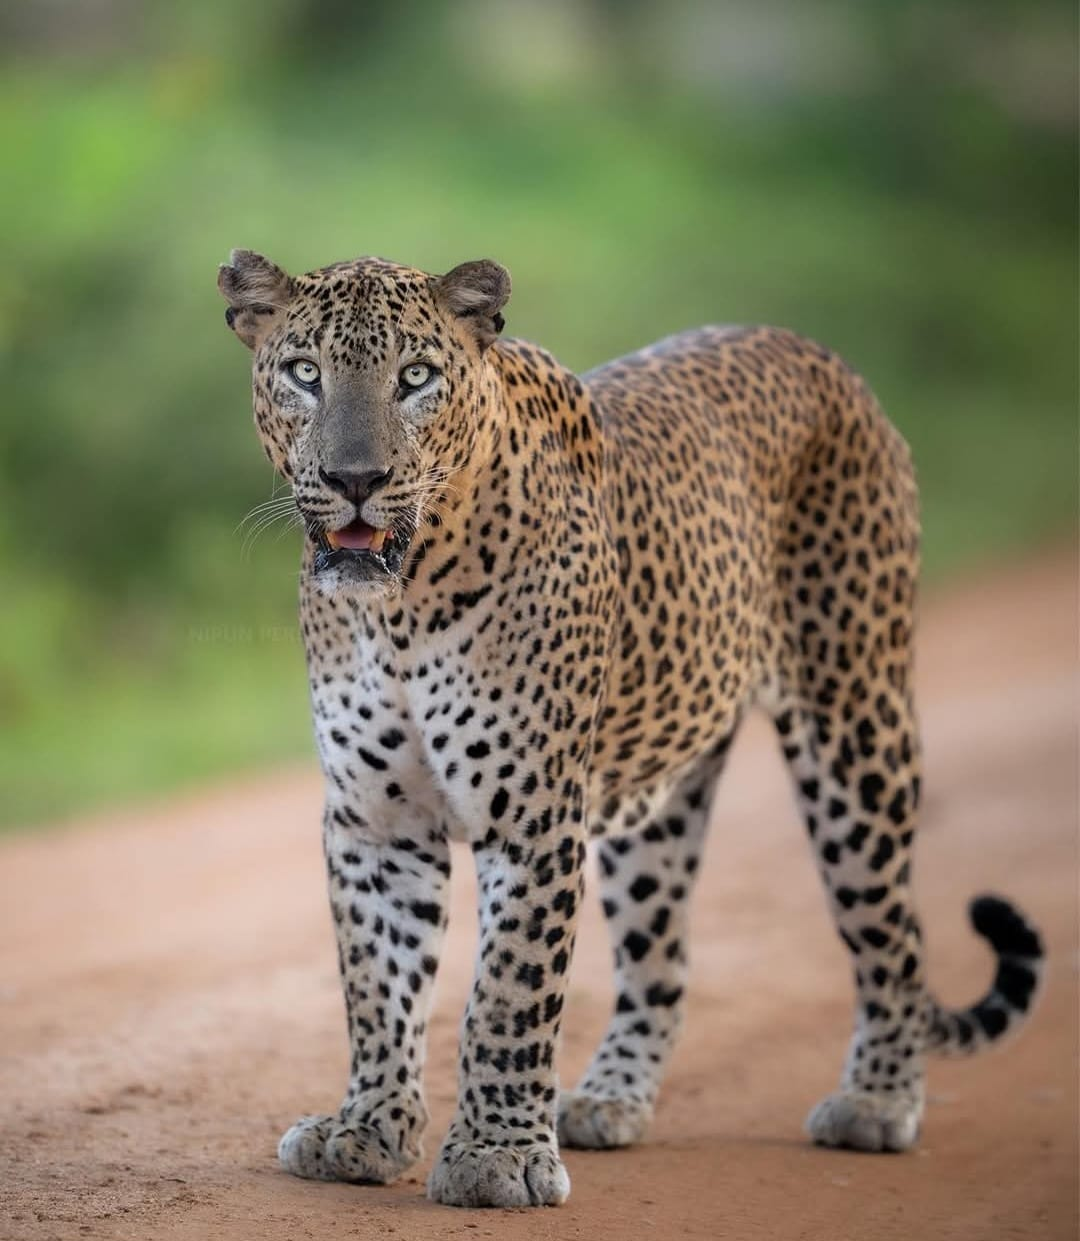
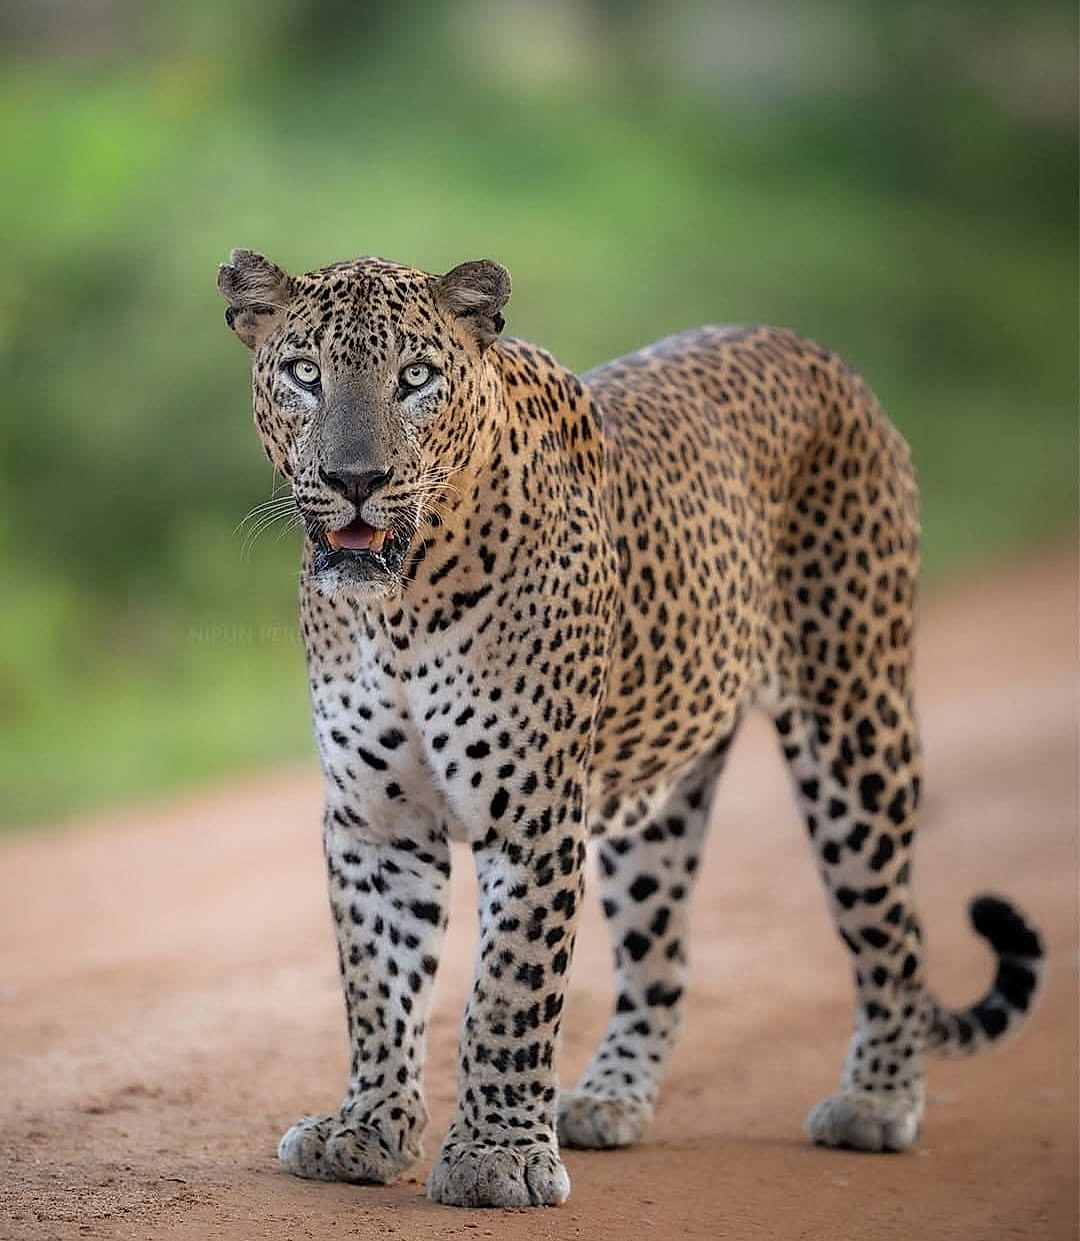
Fix incorrect/duplicate stock photos and sharpen hero images
- Replace the About section's mislabeled Maldives beach/boat photo with
  a real Yala leopard shot
- Remove two non-Yala stock photos from the gallery (African savanna
  jeep-at-sunset and acacia-tree landscape) that were mislabeled as
  Yala content
- Fix Udawalawe's Full Day Safari card reusing the same photo as the
  Morning Safari card
- Correct the Evening Safari time (01:30-06:00 was only 4.5 hours
  despite being labeled a 5-hour tour)
- Sharpen and re-encode the 4 hero photos at higher quality to reduce
  softness from upscaling low-resolution source images

diff --git a/src/lib/data.ts b/src/lib/data.ts
@@ -72,7 +72,7 @@ export const safariPackages: SafariPackage[] = [
   {
     slug: "evening-safari",
     title: "5 Hours Evening Safari Tour",
-    time: "01:30 PM – 06:00 PM",
+    time: "01:00 PM – 06:00 PM",
     price: "USD 60",
     image: "/wildlife/sambar-deer.jpeg",
     features: [
@@ -123,8 +123,7 @@ export const packageImagesByDestination: Record<string, Record<string, string>> 
     "evening-safari": "/wildlife/elephant-by-lake.jpeg",
     "half-day-safari":
       "https://images.unsplash.com/photo-1731124655617-e74233ed4a4d?q=80&w=1200&auto=format&fit=crop",
-    "full-day-safari":
-      "https://images.unsplash.com/photo-1617867644194-550af3ae2c56?q=80&w=1200&auto=format&fit=crop",
+    "full-day-safari": "/wildlife/tusker-elephant-walking.jpeg",
   },
   bundala: {
     "morning-safari": "/wildlife/black-necked-stork.jpeg",
@@ -263,16 +262,6 @@ export const galleryImages: GalleryImage[] = [
     category: "Elephants",
   },
   {
-    src: "https://images.unsplash.com/photo-1516426122078-c23e76319801?q=80&w=1000&auto=format&fit=crop",
-    alt: "Safari jeep driving through the park",
-    category: "Safari Jeeps",
-  },
-  {
-    src: "https://images.unsplash.com/photo-1547471080-7cc2caa01a7e?q=80&w=1000&auto=format&fit=crop",
-    alt: "Yala National Park landscape",
-    category: "Landscapes",
-  },
-  {
     src: "/wildlife/hoopoe-on-stump.jpeg",
     alt: "Hoopoe perched on a tree stump",
     category: "Birds",
@@ -286,11 +275,6 @@ export const galleryImages: GalleryImage[] = [
     src: "https://images.unsplash.com/photo-1727899662754-a06f1ad2c3bb?q=80&w=1000&auto=format&fit=crop",
     alt: "Peacock displaying its feathers",
     category: "Birds",
-  },
-  {
-    src: "https://images.unsplash.com/photo-1516815231560-8f41ec531527?q=80&w=1000&auto=format&fit=crop",
-    alt: "Jeep safari at dusk",
-    category: "Safari Jeeps",
   },
   {
     src: "/wildlife/crocodile.jpg",

diff --git a/src/components/About.tsx b/src/components/About.tsx
@@ -15,11 +15,12 @@ export default function About() {
     <section id="about" className="bg-safari-cream py-20 sm:py-28">
       <div className="mx-auto grid max-w-7xl items-center gap-12 px-6 lg:grid-cols-2 lg:px-8">
         <ScrollReveal>
-          <div className="relative h-[420px] w-full overflow-hidden rounded-3xl shadow-2xl sm:h-[500px]">
+          <div className="relative h-105 w-full overflow-hidden rounded-3xl shadow-2xl sm:h-125">
             <Image
-              src="https://images.unsplash.com/photo-1516815231560-8f41ec531527?q=80&w=1200&auto=format&fit=crop"
-              alt="Safari guide Gayan leading a tour in Yala National Park"
+              src="/wildlife/leopard-lying-road.jpeg"
+              alt="Sri Lankan leopard resting on a safari track in Yala National Park"
               fill
+              sizes="(min-width: 1024px) 50vw, 100vw"
               className="object-cover"
             />
           </div>
